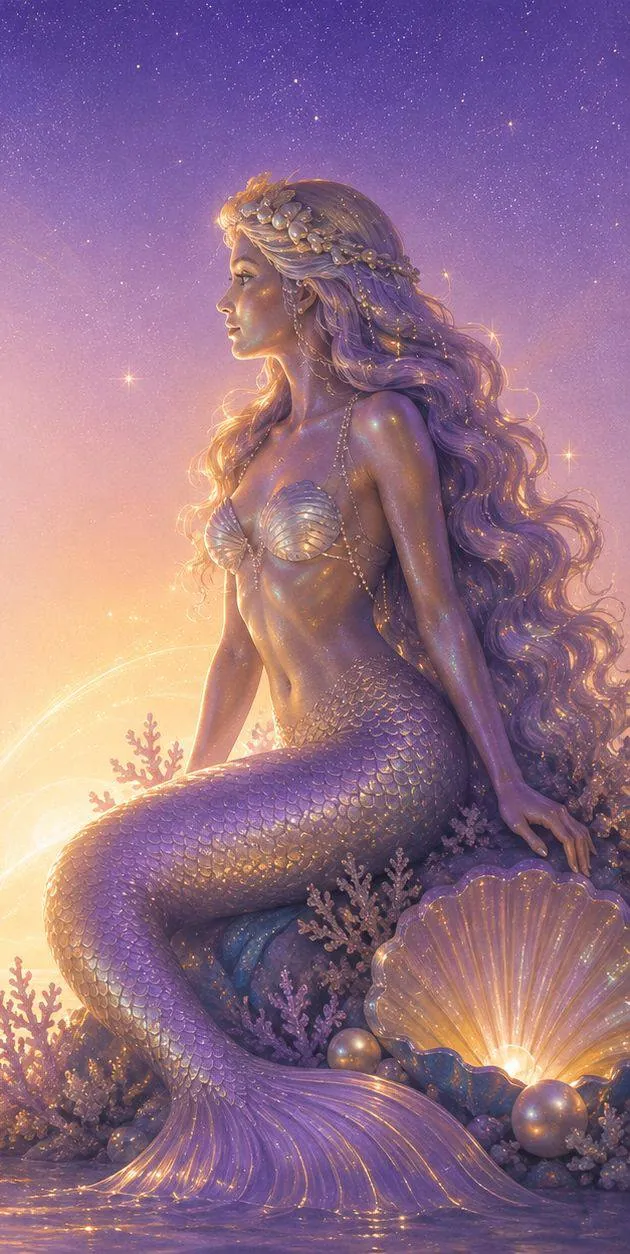
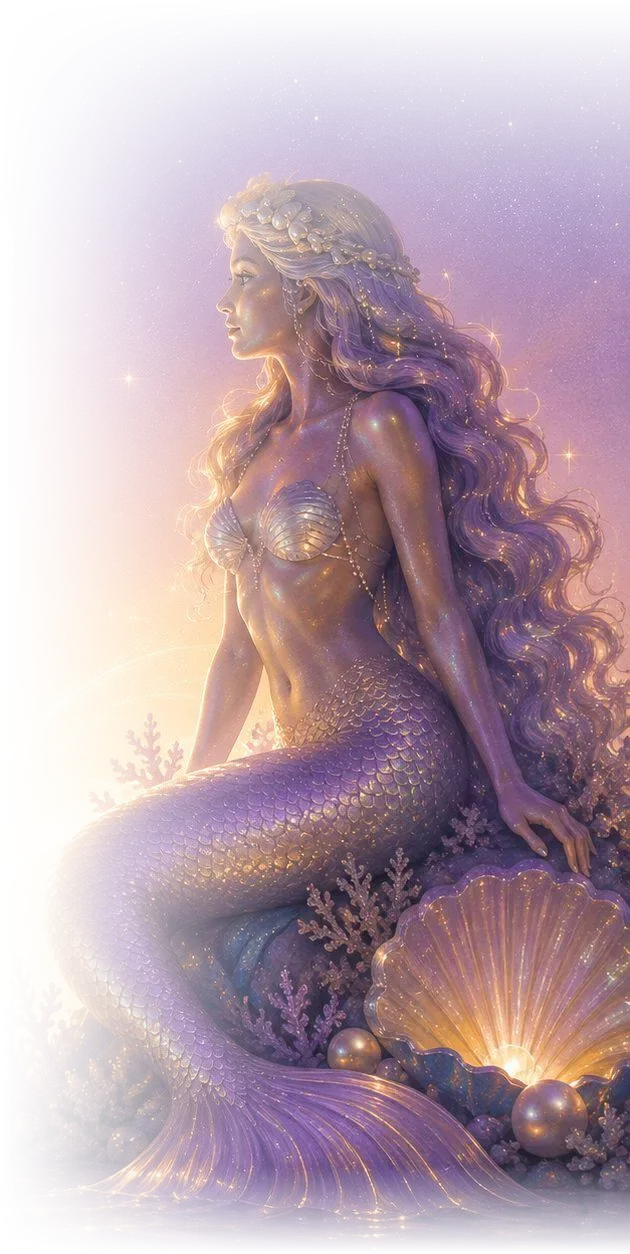
Sereias encostadas na borda com esfumado no próprio webp, mar sem degrau e relatos em carrossel girando

diff --git a/src/app/globals.css b/src/app/globals.css
@@ -1222,20 +1222,32 @@ a.sponsor-tile:focus-visible .sponsor-art { outline: 2px solid var(--accent); ou
 .beach-steps > * { fill: rgb(110 74 34 / 0.28); }
 
 /* ───────── "Quem viveu, conta": vídeos da edição passada em formato story ───────── */
+.story-marquee {
+  overflow: hidden;
+  padding-block: 0.5rem 1rem;
+  -webkit-mask-image: linear-gradient(90deg, transparent, #000 5%, #000 95%, transparent);
+  mask-image: linear-gradient(90deg, transparent, #000 5%, #000 95%, transparent);
+}
 .story-rail {
   display: flex;
-  gap: clamp(0.85rem, 2vw, 1.25rem);
-  overflow-x: auto;
-  scroll-snap-type: x mandatory;
-  scrollbar-width: none;
+  width: max-content;
   list-style: none;
+  padding: 0;
   margin: 0;
-  /* alinha o primeiro card com o texto e deixa o último "espiando" na borda */
-  padding: 0.5rem max(1.25rem, calc((100vw - 72rem) / 2 + 2rem)) 1rem;
-  scroll-padding-inline: max(1.25rem, calc((100vw - 72rem) / 2 + 2rem));
+  animation: sponsor-scroll 70s linear infinite;
+  will-change: transform;
+  backface-visibility: hidden;
 }
-.story-rail::-webkit-scrollbar { display: none; }
-.story-rail > li { flex: 0 0 clamp(14.5rem, 68vw, 19rem); scroll-snap-align: start; }
+/* margem (não gap): as duas metades ficam idênticas e o -50% encaixa sem salto */
+.story-rail > li { flex: 0 0 clamp(14.5rem, 68vw, 19rem); padding-right: clamp(0.85rem, 2vw, 1.25rem); box-sizing: content-box; }
+.story-marquee:hover .story-rail,
+.story-marquee:focus-within .story-rail,
+.story-marquee.is-paused .story-rail { animation-play-state: paused; }
+@media (prefers-reduced-motion: reduce) {
+  .story-marquee { overflow-x: auto; scroll-snap-type: x mandatory; scrollbar-width: none; }
+  .story-rail { animation: none; }
+  .story-rail > li { scroll-snap-align: center; }
+}
 .story-card {
   position: relative;
   margin: 0;
@@ -1484,7 +1496,8 @@ a.sponsor-tile:focus-visible .sponsor-art { outline: 2px solid var(--accent); ou
 .hero-btn { color: #fff; border-color: rgb(255 255 255 / 0.55); background: rgb(255 255 255 / 0.08); }
 .hero-btn:hover { border-color: #fff; background: rgb(255 255 255 / 0.18); }
 
-/* sereia da arte oficial: borda esfumada para se fundir no céu do site */
+/* sereia da arte oficial, encostada na borda da página. O esfumado (lado de dentro, topo e base) vem
+   gravado no canal alfa do próprio webp: funciona em qualquer navegador, sem mask-image. */
 .hero-mermaid {
   position: absolute;
   z-index: 1;
@@ -1492,20 +1505,10 @@ a.sponsor-tile:focus-visible .sponsor-art { outline: 2px solid var(--accent); ou
   height: min(90svh, 54rem);
   width: auto;
   pointer-events: none;
-  /* bordas esfumadas nas 4 direções (o recorte tem o céu da arte original atrás) */
-  -webkit-mask-image: linear-gradient(90deg, transparent, #000 34%, #000 92%, transparent), linear-gradient(180deg, transparent, #000 16%, #000 84%, transparent);
-  -webkit-mask-composite: source-in;
-  mask-image: linear-gradient(90deg, transparent, #000 34%, #000 92%, transparent), linear-gradient(180deg, transparent, #000 16%, #000 84%, transparent);
-  mask-composite: intersect;
   animation: fade-in 1.4s ease-out 0.2s both;
 }
-.hero-mermaid.is-right { right: max(-3rem, calc((100vw - 96rem) / 2)); }
-/* a da esquerda olha para a direita: esfumado espelhado (o lado de fora some na borda da tela) */
-.hero-mermaid.is-left {
-  left: max(-3rem, calc((100vw - 96rem) / 2));
-  -webkit-mask-image: linear-gradient(270deg, transparent, #000 34%, #000 92%, transparent), linear-gradient(180deg, transparent, #000 16%, #000 84%, transparent);
-  mask-image: linear-gradient(270deg, transparent, #000 34%, #000 92%, transparent), linear-gradient(180deg, transparent, #000 16%, #000 84%, transparent);
-}
+.hero-mermaid.is-right { right: 0; }
+.hero-mermaid.is-left { left: 0; }
 .hero-save {
   display: flex;
   flex-wrap: wrap;
@@ -1602,20 +1605,20 @@ a.sponsor-tile:focus-visible .sponsor-art { outline: 2px solid var(--accent); ou
   -webkit-mask-image: linear-gradient(180deg, transparent, #000 30%);
   mask-image: linear-gradient(180deg, transparent, #000 30%);
 }
+/* base do mar se dissolve na água das ondas logo abaixo (sem degrau de cor) */
+.pearl-horizon::after {
+  content: "";
+  position: absolute;
+  inset: auto 0 0;
+  z-index: 1;
+  height: 42%;
+  background: linear-gradient(180deg, rgb(165 140 233 / 0), rgb(165 140 233 / 0.55) 55%, #a58ce9);
+  pointer-events: none;
+}
 @media (max-width: 767px) {
   /* menor no celular: a cabeça fica abaixo do botão; alto do recorte mais esfumado */
   /* celular: as duas sereias embaixo, nos cantos, emoldurando a pérola */
   .hero-mermaid { height: 36svh; bottom: 2.75rem; }
-  .hero-mermaid.is-right {
-    right: -9vw;
-    -webkit-mask-image: linear-gradient(90deg, transparent, #000 34%, #000 92%, transparent), linear-gradient(180deg, transparent, #000 30%, #000 86%, transparent);
-    mask-image: linear-gradient(90deg, transparent, #000 34%, #000 92%, transparent), linear-gradient(180deg, transparent, #000 30%, #000 86%, transparent);
-  }
-  .hero-mermaid.is-left {
-    left: -9vw;
-    -webkit-mask-image: linear-gradient(270deg, transparent, #000 34%, #000 92%, transparent), linear-gradient(180deg, transparent, #000 30%, #000 86%, transparent);
-    mask-image: linear-gradient(270deg, transparent, #000 34%, #000 92%, transparent), linear-gradient(180deg, transparent, #000 30%, #000 86%, transparent);
-  }
   .hero-copy { justify-content: flex-start; padding-top: 2.5svh; }
 }
 @media (prefers-reduced-motion: reduce) {

diff --git a/src/components/past-editions.tsx b/src/components/past-editions.tsx
@@ -6,12 +6,15 @@ import { pastVideos } from "@/content/site";
 
 /**
  * "Quem viveu, conta": vídeos da edição passada em formato de story, cada um com um relato por cima.
+ * Faixa sempre girando, como a dos patrocinadores: a lista aparece 2x e anda -50% em loop, então o fim
+ * encaixa no começo sem salto. Para com o mouse em cima, com foco ou com o som de um vídeo ligado.
  * Leve no celular: preload="none", só toca (mudo) o vídeo que está quase todo visível e pausa o resto;
- * tocar no vídeo liga o som dele e muta os outros. Sem animação: nada toca sozinho.
+ * tocar no vídeo liga o som dele e muta os outros. Sem animação: vira rolagem manual e nada toca sozinho.
  */
 export function PastEditions() {
   const [soundOn, setSoundOn] = useState<number | null>(null);
   const refs = useRef<(HTMLVideoElement | null)[]>([]);
+  const loop = [0, 1].flatMap((copy) => pastVideos.map((v) => ({ v, copy })));
 
   useEffect(() => {
     const reduced = matchMedia("(prefers-reduced-motion: reduce)").matches;
@@ -76,46 +79,49 @@ export function PastEditions() {
         <p className="mt-4 max-w-xl text-fg-muted">Um pouco da última virada, direto do nosso Instagram. Toque no vídeo para ouvir.</p>
       </div>
 
-      <ul className="story-rail mt-10">
-        {pastVideos.map((v, i) => (
-          <li key={v.src}>
-            <figure className="story-card">
-              <video
-                ref={(el) => {
-                  refs.current[i] = el;
-                }}
-                src={v.src}
-                poster={v.poster}
-                muted
-                loop
-                playsInline
-                preload="none"
-                className="story-video"
-                aria-label={v.alt}
-              />
-              <button
-                type="button"
-                className="story-hit"
-                onClick={() => toggleSound(i)}
-                aria-pressed={soundOn === i}
-                aria-label={soundOn === i ? "Desligar o som" : "Ligar o som"}
-              >
-                <span className="story-sound" aria-hidden>
-                  {soundOn === i ? "🔊" : "🔇"}
-                </span>
-              </button>
-              {v.quote && (
-                <figcaption className="story-caption">
-                  <blockquote className="font-display text-xl leading-snug italic md:text-2xl">“{v.quote}”</blockquote>
-                  <span className="mt-2 block text-[0.65rem] uppercase tracking-[0.22em] text-white/70">
-                    {v.author} · {v.role}
+      <div className={`story-marquee mt-10${soundOn !== null ? " is-paused" : ""}`}>
+        <ul className="story-rail">
+          {loop.map(({ v, copy }, i) => (
+            <li key={`${copy}-${v.src}`} aria-hidden={copy > 0 || undefined}>
+              <figure className="story-card">
+                <video
+                  ref={(el) => {
+                    refs.current[i] = el;
+                  }}
+                  src={v.src}
+                  poster={v.poster}
+                  muted
+                  loop
+                  playsInline
+                  preload="none"
+                  className="story-video"
+                  aria-label={v.alt}
+                />
+                <button
+                  type="button"
+                  className="story-hit"
+                  onClick={() => toggleSound(i)}
+                  tabIndex={copy > 0 ? -1 : undefined}
+                  aria-pressed={soundOn === i}
+                  aria-label={soundOn === i ? "Desligar o som" : "Ligar o som"}
+                >
+                  <span className="story-sound" aria-hidden>
+                    {soundOn === i ? "🔊" : "🔇"}
                   </span>
-                </figcaption>
-              )}
-            </figure>
-          </li>
-        ))}
-      </ul>
+                </button>
+                {v.quote && (
+                  <figcaption className="story-caption">
+                    <blockquote className="font-display text-xl leading-snug italic md:text-2xl">“{v.quote}”</blockquote>
+                    <span className="mt-2 block text-[0.65rem] uppercase tracking-[0.22em] text-white/70">
+                      {v.author} · {v.role}
+                    </span>
+                  </figcaption>
+                )}
+              </figure>
+            </li>
+          ))}
+        </ul>
+      </div>
       <p className="mx-auto mt-6 w-full max-w-6xl px-5 text-xs text-fg-faint md:px-8">
         Vídeos:{" "}
         <a className="underline-offset-4 hover:underline" href="https://www.instagram.com/perolaseventos/reels/" target="_blank" rel="noopener noreferrer">
